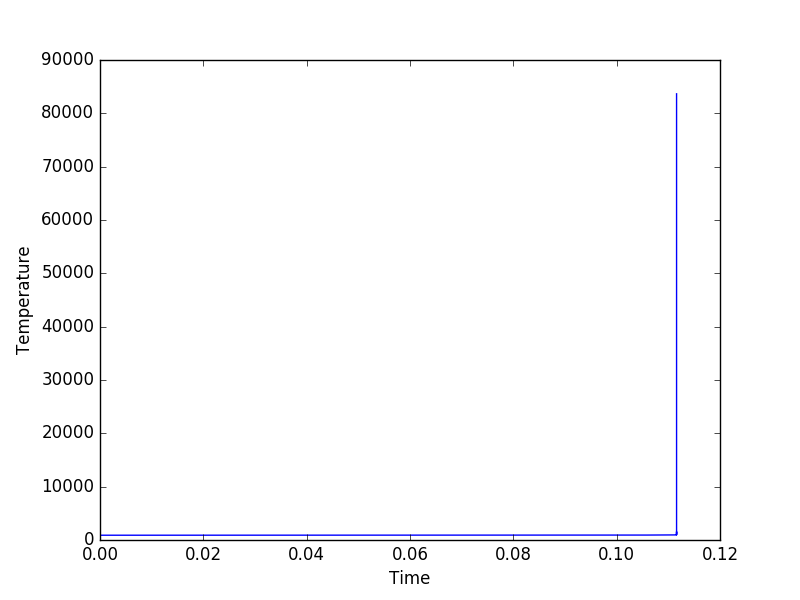
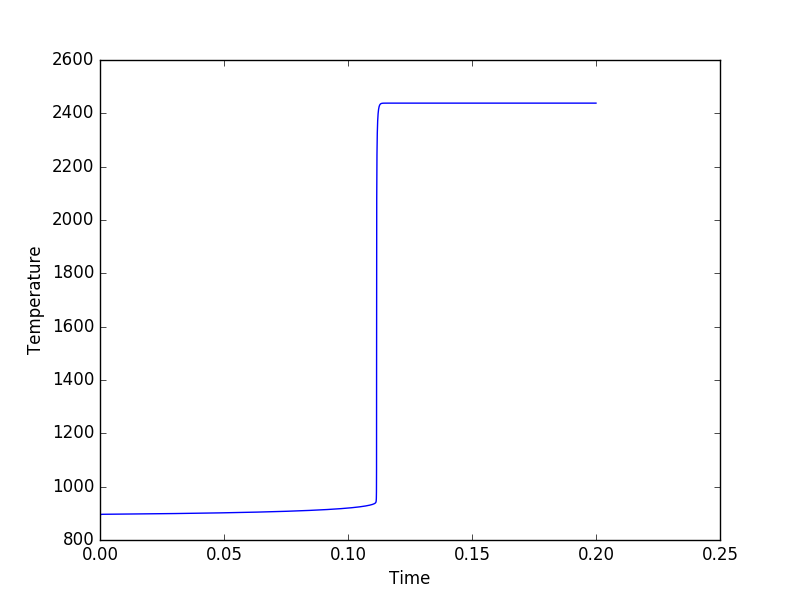
Lowered dt to 1e-8 and replotted.

diff --git a/Stiffness_CO_H2_rogers_6_21_17_validation.py b/Stiffness_CO_H2_rogers_6_21_17_validation.py
@@ -161,7 +161,7 @@ wj = 1.
 normweights = wi, wj
 
 # Define the range of the computation
-dt = 1.e-7
+dt = 1.e-8
 tstart = 0
 tstop = 0.2
 tlist = np.arange(tstart, tstop + 0.5 * dt, dt)
